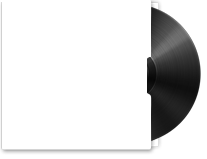
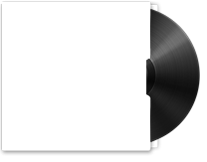
1px fix to vinyl record cover upper border

diff --git a/rolleshark.css b/rolleshark.css
@@ -35,7 +35,7 @@ left: 12px; }
 /* vinyl large */
 
 .outerpair2 { background: url(../icons/rolleshark/vinyl_large5.png) 0 0 no-repeat !important; width: 200px; height: 160px; }
-.outerpair1 .innerbox img { width: 149px; height: 149px; top: 1px; left: 2px; }
+.outerpair1 .innerbox img { width: 149px; height: 149px; top: 2px; left: 2px; }
 html body.mainframe div div div .detail[style="float: right; padding-right: 10px; padding-bottom: 15px; text-align: right;"] { margin-right:60px !important;  }
 
 /* RIGHT SIDEBAR "NOW PLAYING" VIEW: */
